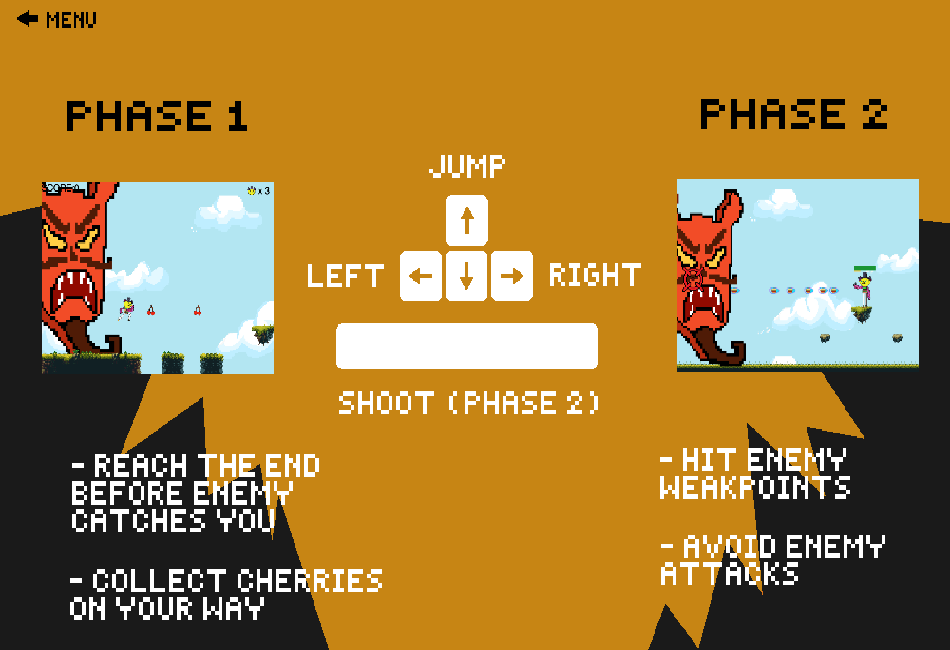
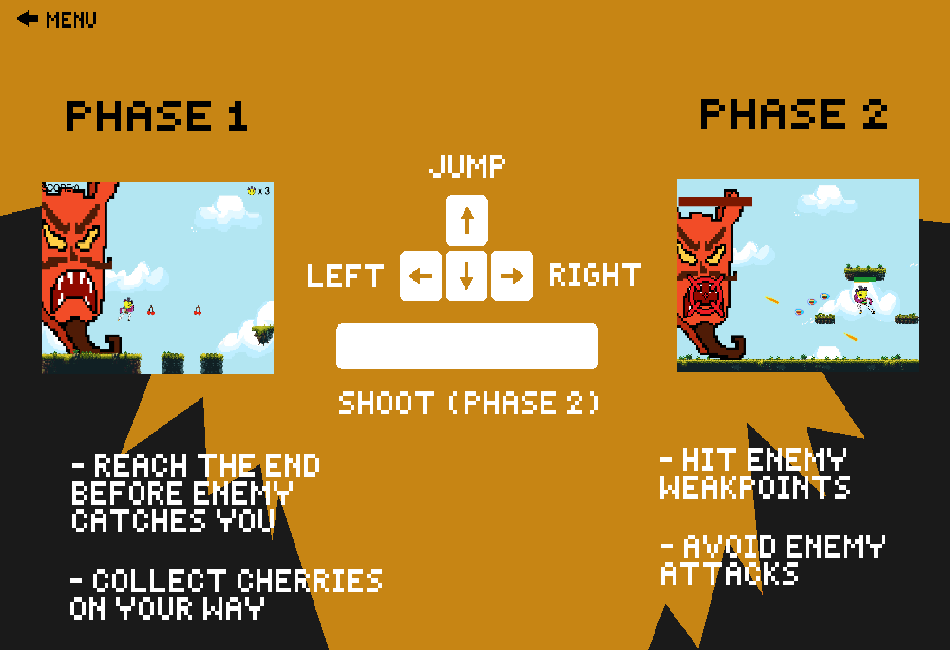
added target/burger collision

Changed region(s): [[0.7021, 0.2769, 0.9768, 0.5846]]

diff --git a/src/scenes/Boss.js b/src/scenes/Boss.js
@@ -30,7 +30,6 @@ class Boss extends Phaser.Scene {
         this.keys = this.input.keyboard.createCursorKeys()
         this.player = new PlayerBoss(this, this.spawn.x, this.spawn.y, 'playerIdle', 0)
         this.player.setCollideWorldBounds(true)
-        this.physics.add.collider(this.player, this.boss)
 
         //create health/burger b1ar for player
         this.playerBar = this.createBar(this.player.x - 50, this.player.y - 100, 100, 20, 0x1A9534)
@@ -53,13 +52,7 @@ class Boss extends Phaser.Scene {
         this.target = this.physics.add.sprite(gameWidth/2 - 300, gameHeight/2 - 20, 'target').setScale(7).setCircle(11.75).setOffset(5.75, 5.7)
         this.target2 = this.physics.add.sprite(gameWidth/2 - 230, gameHeight/2 + 135, 'target').setScale(4).setCircle(11.75).setOffset(6, 5.6)
         this.target3 = this.physics.add.sprite(gameWidth/2 - 220, gameHeight/2 - 165, 'target').setScale(4).setCircle(11.5).setOffset(6, 5.6)
-        this.target.preFX.addGlow(0xffffff, 2, 0, false, 0.1, 1)
-        this.target2.preFX.addGlow(0xffffff, 2, 0, false, 0.1, 1)
-        this.target3.preFX.addGlow(0xffffff, 2, 0, false, 0.1, 1)
-
-        this.target.visible = false
-        this.target2.visible = false
-        this.target3.visible = false
+        this.target.setTint(0xffffff)
         
         this.physics.world.setBounds(0, 0, map.widthInPixels, map.heightInPixels)
         this.cameras.main.setBounds(100, 0, map.widthInPixels, map.heightInPixels)
@@ -236,10 +229,9 @@ class Boss extends Phaser.Scene {
             this.sound.play('firing', {volume: 0.8})
 
             //collide burger with boss and callback to destroy burger
-            this.physics.add.collider(this.burger, this.boss, this.destroyBurger)
-            this.physics.add.collider(this.burgerEffect, this.boss, this.destroyEffect, () => {
+            this.physics.add.overlap(this.burger, this.targetGroup, this.destroyBurger)
+            this.physics.add.overlap(this.burgerEffect, this.targetGroup, this.destroyEffect, () => {
                 this.bossHP -= 20
-                console.log(this.bossHP)
                 this.setValue(this.bossBar, this.bossHP, 1000)
             })
         } else {
@@ -249,10 +241,9 @@ class Boss extends Phaser.Scene {
             this.burgerEffect.setVelocityX(500)
 
             this.sound.play('firing', {volume: 0.8})
-            this.physics.add.collider(this.burger, this.boss, this.destroyBurger)
-            this.physics.add.collider(this.burgerEffect, this.boss, this.destroyEffect, () => {
+            this.physics.add.overlap(this.burger, this.targetGroup, this.destroyBurger)
+            this.physics.add.overlap(this.burgerEffect, this.targetGroup, this.destroyEffect, () => {
                 this.bossHP -= 20
-                console.log(this.bossHP)
                 this.setValue(this.bossBar, this.bossHP, 1000)
             })
         }
@@ -260,6 +251,7 @@ class Boss extends Phaser.Scene {
     
     //destroys burger and plays hit animation
     destroyBurger(burger, boss) {
+        burger.setVelocityX(0)
         burger.play('burgerHit', true)
         burger.once('animationcomplete', () => {
             burger.destroy()

diff --git a/src/main.js b/src/main.js
@@ -15,7 +15,7 @@ let config = {
     physics: {
         default: 'arcade',
         arcade: {
-            debug: true,
+            //debug: true,
             gravity: {
                 x: 0,
                 y: 0
